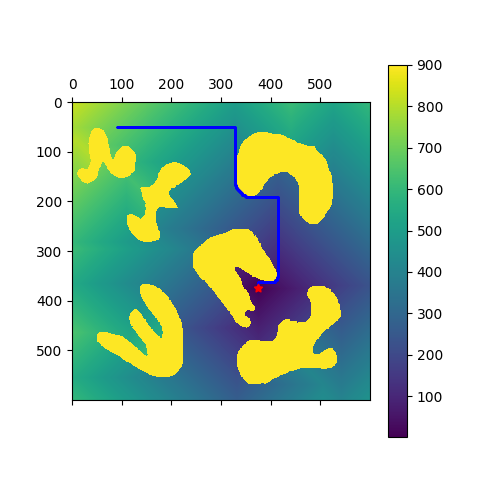
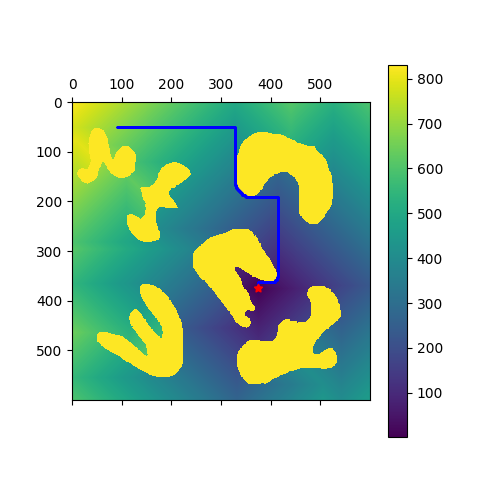
wave front planner done, may be a better soltution

diff --git a/Lab2.py b/Lab2.py
@@ -213,7 +213,7 @@ def wave_front(q_goal,apply_scaling=True,n_neighbours=4):
         
         if len(valid_neigh)!=0:
             que.put(valid_neigh)
-    wave_map[np.where(wave_map == 1)]=900  #setting obs manually to max
+    wave_map[np.where(wave_map == 1)]=wave_map.max() + 1  #setting obs manually to max
     
     # if apply_scaling:
     #     wave_map =wave_map/wave_map.max()*200  # scalling
